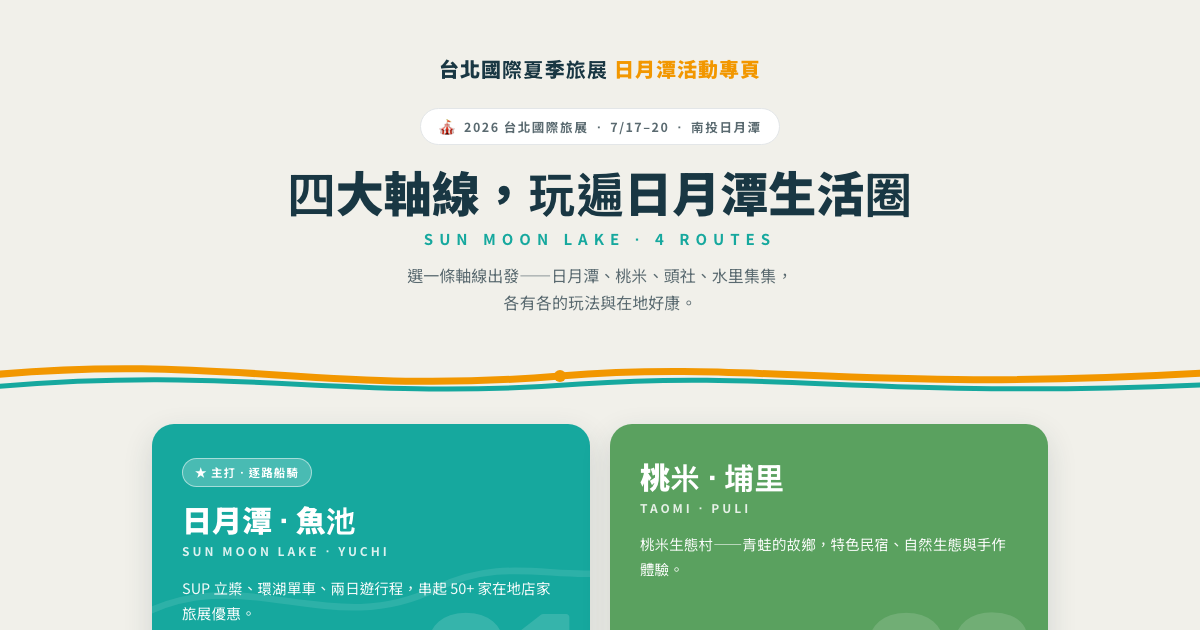
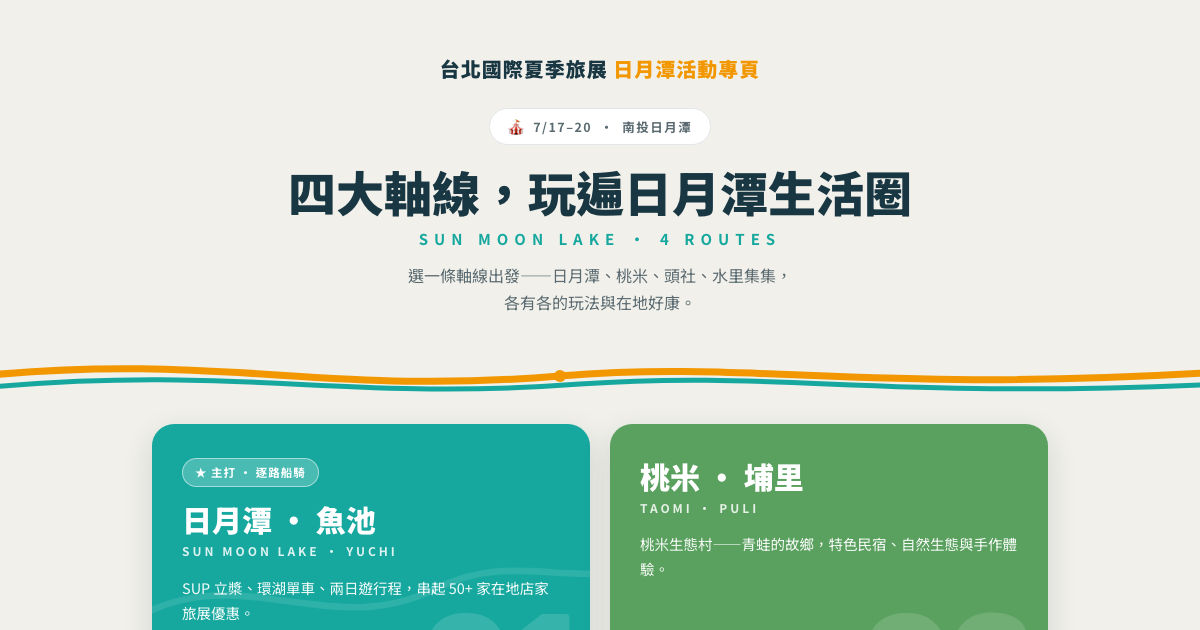
健檢優化七項一次到位： 1) 三軸線頁返回連結 portal.html→/（免多跳轉址頁） 2) 三軸線頁 footer 品牌字更新為「日月潭活動專頁 ‧ 四大軸線」 3) 入口頁藥丸精簡為「7/17–20 ‧ 南投日月潭」去除與品牌字重複，footer 補「夏季」 4) onelife 卡片優惠改 linkify（不換行變體），玄町/雁寓訂房連結卡片上可直接點 5) 三軸線頁手機返回鍵觸控目標加大至 44x48 6) 全站 8 張照片轉 WebP（2032K→916K 省 55%），onelife 頁面引用改 .webp、og:image 維持 jpg 7) taomi 補 prefers-

diff --git a/onelife.html b/onelife.html
@@ -15,7 +15,7 @@
 <meta name="twitter:card" content="summary_large_image">
 <link rel="icon" href="favicon.svg" type="image/svg+xml">
 <link rel="apple-touch-icon" href="apple-touch-icon.png">
-<link rel="preload" as="image" href="images/hero.jpg">
+<link rel="preload" as="image" href="images/hero.webp">
 <link rel="preconnect" href="https://fonts.googleapis.com">
 <link rel="preconnect" href="https://fonts.gstatic.com" crossorigin>
 <link href="https://fonts.googleapis.com/css2?family=Noto+Sans+TC:wght@400;500;700;900&family=Noto+Serif+TC:wght@700;900&family=Rubik:ital,wght@0,700;0,900;1,900&display=swap" rel="stylesheet">
@@ -1566,9 +1566,9 @@ footer .disc {
 <header class="hero">
   <!-- 背景輪播 -->
   <div class="hero-slider" id="heroSlider">
-    <div class="hero-slide active" style="background-image:url('images/hero.jpg')"></div>
-    <div class="hero-slide" data-bg="images/hero2.jpg"></div>
-    <div class="hero-slide" data-bg="images/hero3.jpg"></div>
+    <div class="hero-slide active" style="background-image:url('images/hero.webp')"></div>
+    <div class="hero-slide" data-bg="images/hero2.webp"></div>
+    <div class="hero-slide" data-bg="images/hero3.webp"></div>
   </div>
 
   <!-- 遮罩 -->
@@ -1724,7 +1724,7 @@ footer .disc {
 
     <article class="legend">
       <div class="legend-img">
-        <img src="images/deer.jpg" alt="邵族白鹿傳說 ‧ 日月潭" loading="lazy">
+        <img src="images/deer.webp" alt="邵族白鹿傳說 ‧ 日月潭" loading="lazy">
         <span class="tag">邵族 ‧ 白鹿傳說</span>
       </div>
       <div class="legend-body">
@@ -1747,7 +1747,7 @@ footer .disc {
     <div class="exp-grid">
       <!-- 磚 1：SUP -->
       <div class="exp-tile">
-        <img src="images/sup.jpg" alt="月牙灣 SUP 立槳" loading="lazy">
+        <img src="images/sup.webp" alt="月牙灣 SUP 立槳" loading="lazy">
         <div class="exp-tile-overlay">
           <span class="exp-tile-tag">水上活動</span>
           <h3>月牙灣 ‧ SUP 立槳</h3>
@@ -1761,7 +1761,7 @@ footer .disc {
       </div>
       <!-- 磚 2：單車 -->
       <div class="exp-tile">
-        <img src="images/bike.jpg" alt="環湖單車" loading="lazy">
+        <img src="images/bike.webp" alt="環湖單車" loading="lazy">
         <div class="exp-tile-overlay">
           <span class="exp-tile-tag">湖岸騎行</span>
           <h3>環湖單車 ‧ 最美湖岸線</h3>
@@ -1774,7 +1774,7 @@ footer .disc {
       </div>
       <!-- 磚 3：茶廠 -->
       <div class="exp-tile">
-        <img src="images/tea.jpg" alt="日月老茶廠" loading="lazy">
+        <img src="images/tea.webp" alt="日月老茶廠" loading="lazy">
         <div class="exp-tile-overlay">
           <span class="exp-tile-tag">文化體驗</span>
           <h3>日月老茶廠 ‧ 認識紅茶</h3>
@@ -1787,7 +1787,7 @@ footer .disc {
       </div>
       <!-- 磚 4：氣球 -->
       <div class="exp-tile">
-        <img src="images/balloon.jpg" alt="薰衣草森林氦氣球公園" loading="lazy">
+        <img src="images/balloon.webp" alt="薰衣草森林氦氣球公園" loading="lazy">
         <div class="exp-tile-overlay">
           <span class="exp-tile-tag">回程亮點</span>
           <h3>薰衣草森林氦氣球公園</h3>
@@ -1824,7 +1824,7 @@ footer .disc {
 
     <div class="tourcard">
       <div class="timg">
-        <img src="images/hero.jpg" alt="逐路船騎兩日遊 日月潭" loading="lazy">
+        <img src="images/hero.webp" alt="逐路船騎兩日遊 日月潭" loading="lazy">
         <span class="tbadge">★ 招牌主推</span>
         <span class="tdur">🗓 2 天 ‧ 2 人成行</span>
         <span class="tprice">
@@ -2100,7 +2100,7 @@ function card(s,idx){
     <div class="cpn-body">
       <div class="cpn-top"><h4 class="cpn-name">${esc(s.name)}</h4><span class="cpn-cat">${CATNAME[s.group]||""}</span></div>
       <div class="cpn-area">📍 ${esc(s.area||"日月潭周邊")}</div>
-      <div class="cpn-offer">${s.inquiry?"店家優惠洽談中，請洽旅展攤位或店家現場":esc(s.offer)}</div>
+      <div class="cpn-offer">${s.inquiry?"店家優惠洽談中，請洽旅展攤位或店家現場":offerHtml(s.offer).replaceAll("<br>"," ")}</div>
       <div class="cpn-acts">
         ${action}
         <a class="cpn-link" href="${mapUrl(s)}" target="_blank" rel="noopener">🧭 導航</a>

diff --git a/taomi.html b/taomi.html
@@ -120,10 +120,14 @@ ul{margin:0;padding:0;list-style:none}
 }
 .nav-cta:hover{background:#05b34c; transform:translateY(-1px)}
 .nav-cta svg{width:16px;height:16px;flex:0 0 auto}
+@media (prefers-reduced-motion: reduce){
+  .hero-ripples .ring, .hero-frog, .eyebrow-dot, .hero-copy, .hero-copy .eyebrow, .hero-copy h1, .hero-copy .sub, .hero-cta{ animation:none !important; }
+}
 @media(max-width:560px){
   .site-nav{padding:12px 16px}
   .nav-brand{font-size:15px}
   .nav-back span.lbl{display:none}
+  .nav-back{padding:12px 15px;min-height:44px;min-width:44px;justify-content:center}
   .nav-cta{font-size:12.5px;padding:8px 14px}
 }
 
@@ -541,7 +545,7 @@ a:focus-visible, button:focus-visible{outline:3px solid var(--clay); outline-off
 
 <!-- ===== TOP NAV ===== -->
 <nav class="site-nav" role="navigation" aria-label="主選單">
-  <a class="nav-back" href="portal.html"><span aria-hidden="true">←</span><span class="lbl">四大軸線</span></a>
+  <a class="nav-back" href="/"><span aria-hidden="true">←</span><span class="lbl">四大軸線</span></a>
   <div class="nav-brand">桃米<b>生態村</b></div>
   <a class="nav-cta" href="https://line.me/R/ti/p/%40taomi" target="_blank" rel="noopener">
     <svg viewBox="0 0 24 24" fill="currentColor" aria-hidden="true"><path d="M12 3C6.48 3 2 6.66 2 11.18c0 4.05 3.55 7.44 8.35 8.08.32.07.77.21.88.49.1.25.07.64.03.9 0 0-.12.7-.14.85-.04.25-.2.98.86.53s5.7-3.36 7.78-5.75C21.27 14.7 22 13.04 22 11.18 22 6.66 17.52 3 12 3z"/></svg>
@@ -718,7 +722,7 @@ a:focus-visible, button:focus-visible{outline:3px solid var(--clay); outline-off
     <h4 class="fh">桃米生態村 ‧ 青蛙的故鄉</h4>
     <p>地點：南投埔里桃米里（近紙教堂 Paper Dome）</p>
     <p>2026 台北國際夏季旅展 ‧ 7/17–7/20 ‧ 台北世貿一館</p>
-    <p>回到 <a class="footer-back" href="portal.html">日月潭旅展 ‧ 四大軸線</a></p>
+    <p>回到 <a class="footer-back" href="/"><span class="nb">日月潭活動專頁</span> ‧ <span class="nb">四大軸線</span></a></p>
     <p class="disc">所有優惠使用期限至 2026/12/31。優惠內容以桃米休閒農業區官方 LINE（@taomi）公告及各店家現場公告為準，本頁店家清單與折扣資訊如有異動，以店家實際提供為準，恕不負保證與兌換責任。</p>
     <p>2026 台北國際旅展現場專用導覽 ‧ 網站製作：<b>OneLife 玩生活</b></p>
   </div>

diff --git a/shuili.html b/shuili.html
@@ -134,6 +134,7 @@ ul,ol{margin:0;padding:0;list-style:none}
   .site-nav{padding:12px 14px}
   .nav-brand{font-size:13.5px}
   .nav-back span.lbl{display:none}
+  .nav-back{padding:12px 15px;min-height:44px;min-width:44px;justify-content:center}
   .nav-cta{font-size:12.5px;padding:8px 14px}
 }
 
@@ -533,7 +534,7 @@ a:focus-visible, button:focus-visible{outline:3px solid var(--clay); outline-off
 
 <!-- ===== TOP NAV ===== -->
 <nav class="site-nav" role="navigation" aria-label="主選單">
-  <a class="nav-back" href="portal.html"><span aria-hidden="true">←</span><span class="lbl">四大軸線</span></a>
+  <a class="nav-back" href="/"><span aria-hidden="true">←</span><span class="lbl">四大軸線</span></a>
   <div class="nav-brand">水里車埕<b>集集</b></div>
   <a class="nav-cta" href="https://shuili.mindnodeair.com/%E6%97%A5%E6%9C%88%E6%BD%AD%E5%9C%8B%E6%97%85%E5%B0%88%E6%A1%88" target="_blank" rel="noopener">
     <svg viewBox="0 0 24 24" fill="none" stroke="currentColor" stroke-width="2" stroke-linecap="round" stroke-linejoin="round" aria-hidden="true"><path d="M18 13v6a2 2 0 0 1-2 2H5a2 2 0 0 1-2-2V8a2 2 0 0 1 2-2h6"/><polyline points="15 3 21 3 21 9"/><line x1="10" y1="14" x2="21" y2="3"/></svg>
@@ -659,7 +660,7 @@ a:focus-visible, button:focus-visible{outline:3px solid var(--clay); outline-off
     <h4 class="fh">水里・車埕・集集 ‧ <span class="nb">鐵道山城陶藝職人</span></h4>
     <p>地點：南投水里、車埕、集集（集集支線鐵道沿線）</p>
     <p>2026 台北國際夏季旅展 ‧ 7/17–7/20 ‧ 台北世貿一館</p>
-    <p>回到 <a class="footer-back" href="portal.html">日月潭旅展 ‧ 四大軸線</a></p>
+    <p>回到 <a class="footer-back" href="/"><span class="nb">日月潭活動專頁</span> ‧ <span class="nb">四大軸線</span></a></p>
     <p class="disc">店家優惠內容以現場公告或水里集集軸線專頁說明為準，如集元果觀光工廠／休閒農場現場另有更優惠折扣，則二者擇一適用，不併用。本頁店家清單、遊程動線與優惠資訊如有異動，以店家與主辦單位現場實際提供為準，恕不負保證與兌換責任。</p>
     <p>2026 台北國際旅展現場專用導覽 ‧ 網站製作：<b>OneLife 玩生活</b></p>
   </div>

diff --git a/toushe.html b/toushe.html
@@ -126,6 +126,7 @@ ul{margin:0;padding:0;list-style:none}
   .site-nav{padding:12px 16px}
   .nav-brand{font-size:15px}
   .nav-back span.lbl{display:none}
+  .nav-back{padding:12px 15px;min-height:44px;min-width:44px;justify-content:center}
   .nav-cta{font-size:12.5px;padding:8px 14px}
 }
 
@@ -545,7 +546,7 @@ a:focus-visible, button:focus-visible{outline:3px solid var(--gold); outline-off
 
 <!-- ===== TOP NAV ===== -->
 <nav class="site-nav" role="navigation" aria-label="主選單">
-  <a class="nav-back" href="portal.html"><span aria-hidden="true">←</span><span class="lbl">四大軸線</span></a>
+  <a class="nav-back" href="/"><span aria-hidden="true">←</span><span class="lbl">四大軸線</span></a>
   <div class="nav-brand">頭社<b>活盆地</b></div>
   <a class="nav-cta" href="https://www.facebook.com/profile.php?id=61585531176016" target="_blank" rel="noopener">
     <svg viewBox="0 0 24 24" fill="currentColor" aria-hidden="true"><path d="M22 12.06C22 6.51 17.52 2 12 2S2 6.51 2 12.06c0 5.02 3.66 9.18 8.44 9.94v-7.03H7.9v-2.91h2.54V9.85c0-2.5 1.49-3.9 3.77-3.9 1.09 0 2.23.2 2.23.2v2.45h-1.26c-1.24 0-1.63.77-1.63 1.56v1.87h2.78l-.44 2.91h-2.34V22c4.78-.76 8.44-4.92 8.44-9.94z"/></svg>
@@ -698,7 +699,7 @@ a:focus-visible, button:focus-visible{outline:3px solid var(--gold); outline-off
     <h4 class="fh">頭社活盆地 ‧ 金針花的故鄉</h4>
     <p>地點：南投魚池頭社（日月潭旁）</p>
     <p>2026 台北國際夏季旅展 ‧ 7/17–7/20 ‧ 台北世貿一館</p>
-    <p>回到 <a class="footer-back" href="portal.html">日月潭旅展 ‧ 四大軸線</a></p>
+    <p>回到 <a class="footer-back" href="/"><span class="nb">日月潭活動專頁</span> ‧ <span class="nb">四大軸線</span></a></p>
     <p class="disc">廚娘手作套裝優惠 760 元（含基礎絲瓜導覽 & 絲瓜絡提燈 DIY、盆地夜間青蛙生態探索）及各項單獨優惠 400 元，使用期限與詳細場次請以現場或官方臉書粉專公告為準。本頁店家清單與體驗資訊如有異動，以店家實際提供為準，恕不負保證與兌換責任。</p>
     <p>2026 台北國際旅展現場專用導覽 ‧ 網站製作：<b>OneLife 玩生活</b></p>
   </div>

diff --git a/index.html b/index.html
@@ -85,7 +85,7 @@ footer b{color:var(--ink)}
 <header>
   <div class="wrap">
     <div class="brand"><span class="nb">台北國際夏季旅展</span> <b class="nb">日月潭活動專頁</b></div>
-    <span class="eyebrow">🎪 <span class="nb">2026 台北國際旅展</span> ‧ <span class="nb">7/17–20</span> ‧ <span class="nb">南投日月潭</span></span>
+    <span class="eyebrow">🎪 <span class="nb">7/17–20</span> ‧ <span class="nb">南投日月潭</span></span>
     <h1>四大軸線，<span class="nb">玩遍日月潭生活圈</span><span class="en">Sun Moon Lake ‧ <span class="nb">4 Routes</span></span></h1>
     <p class="lead">選一條軸線出發——日月潭、桃米、頭社、<span class="nb">水里集集</span>，<span class="nb">各有各的玩法與在地好康。</span></p>
   </div>
@@ -137,7 +137,7 @@ footer b{color:var(--ink)}
 </main>
 
 <footer>
-  <p>2026 台北國際旅展現場專用導覽 ‧ 網站製作：<b class="nb">OneLife 玩生活 ‧ 魚人帶路</b></p>
+  <p>2026 台北國際夏季旅展現場專用導覽 ‧ 網站製作：<b class="nb">OneLife 玩生活 ‧ 魚人帶路</b></p>
 </footer>
 
 </body>